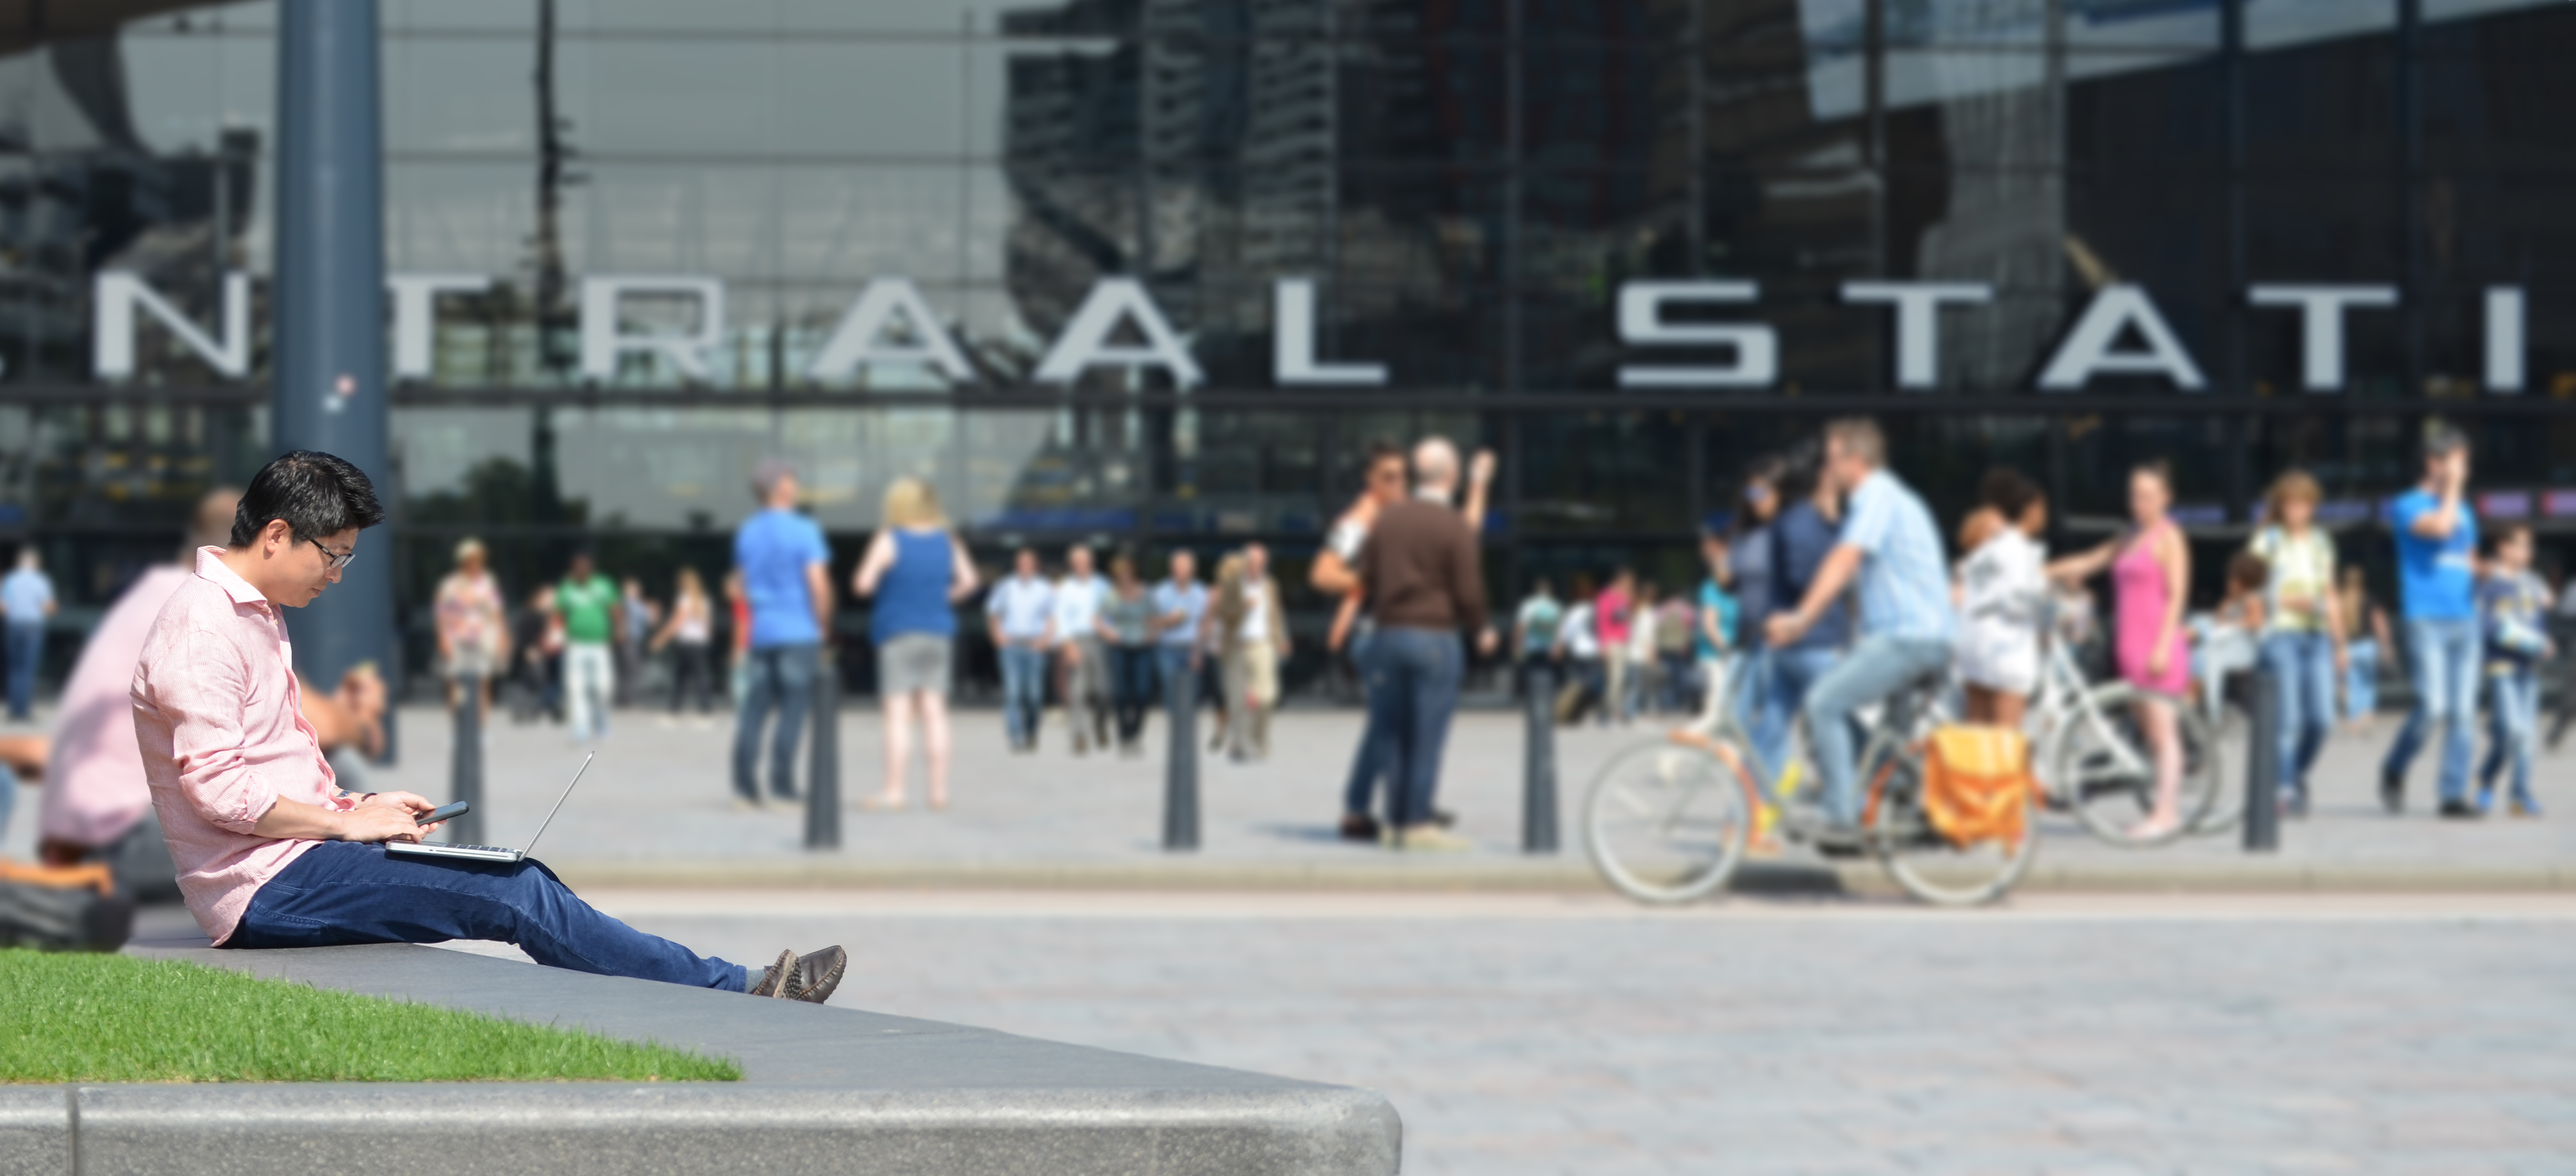
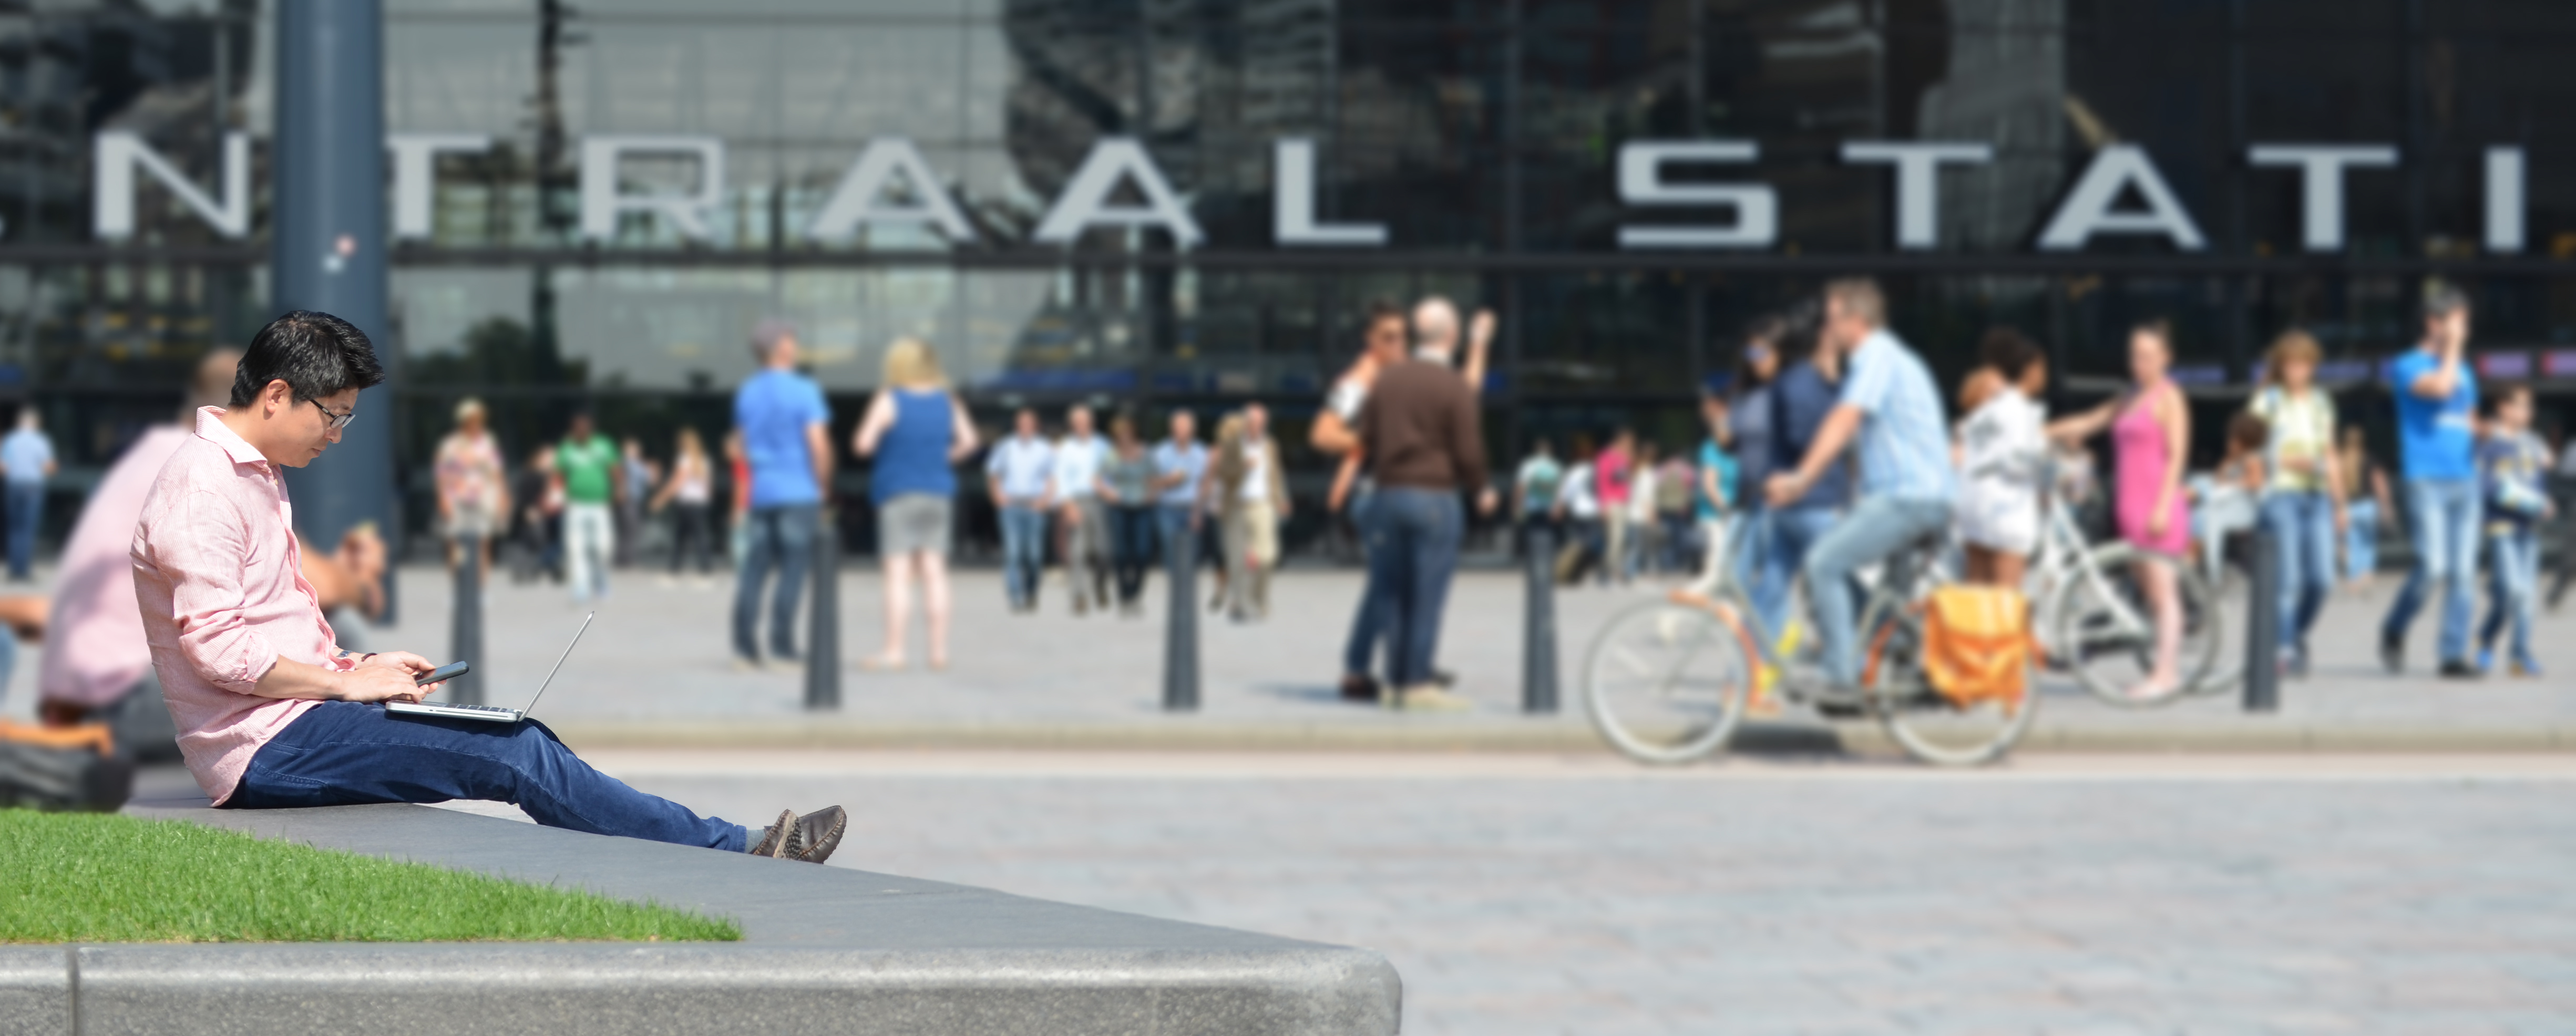
new header home, added ng-cloak

diff --git a/app/styles/main.scss b/app/styles/main.scss
@@ -950,7 +950,7 @@ button.filled {
     height: 600px;
     background-color: $pink;
     background-image: url('../images/headers/home2-4.jpg');
-    background-position: left bottom;
+    background-position: left;
     position: relative;
     .introText {
       margin-top: 80px;
